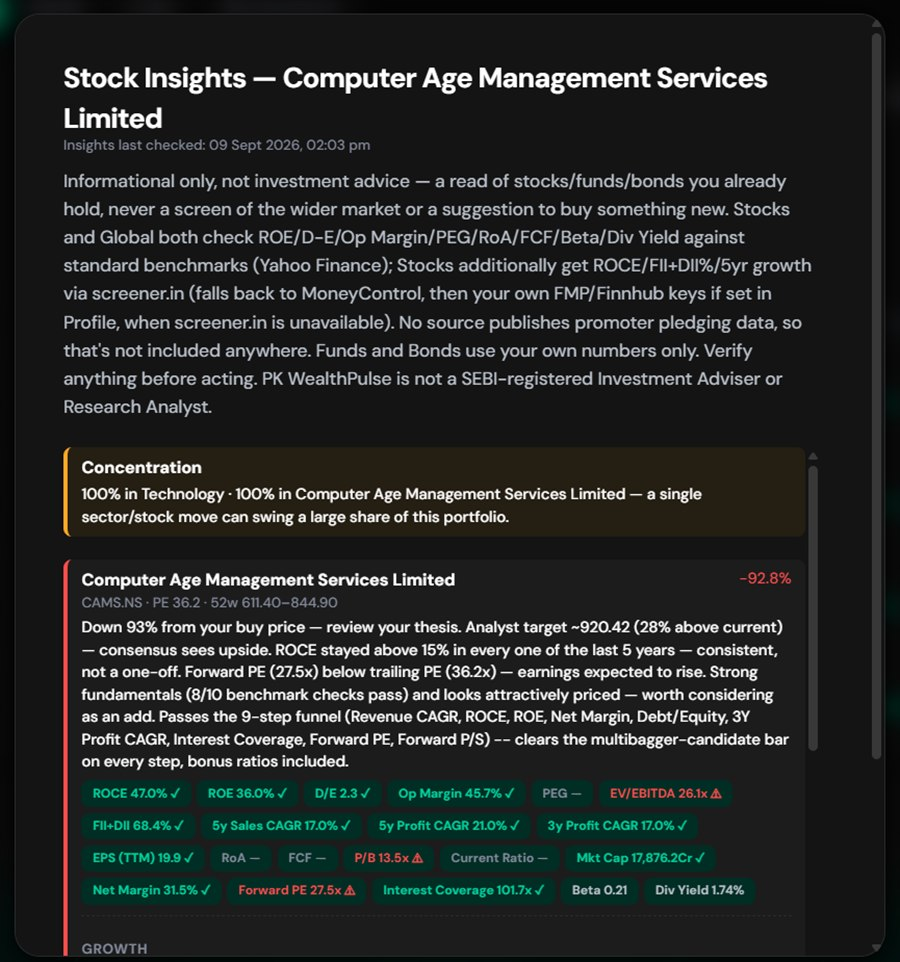
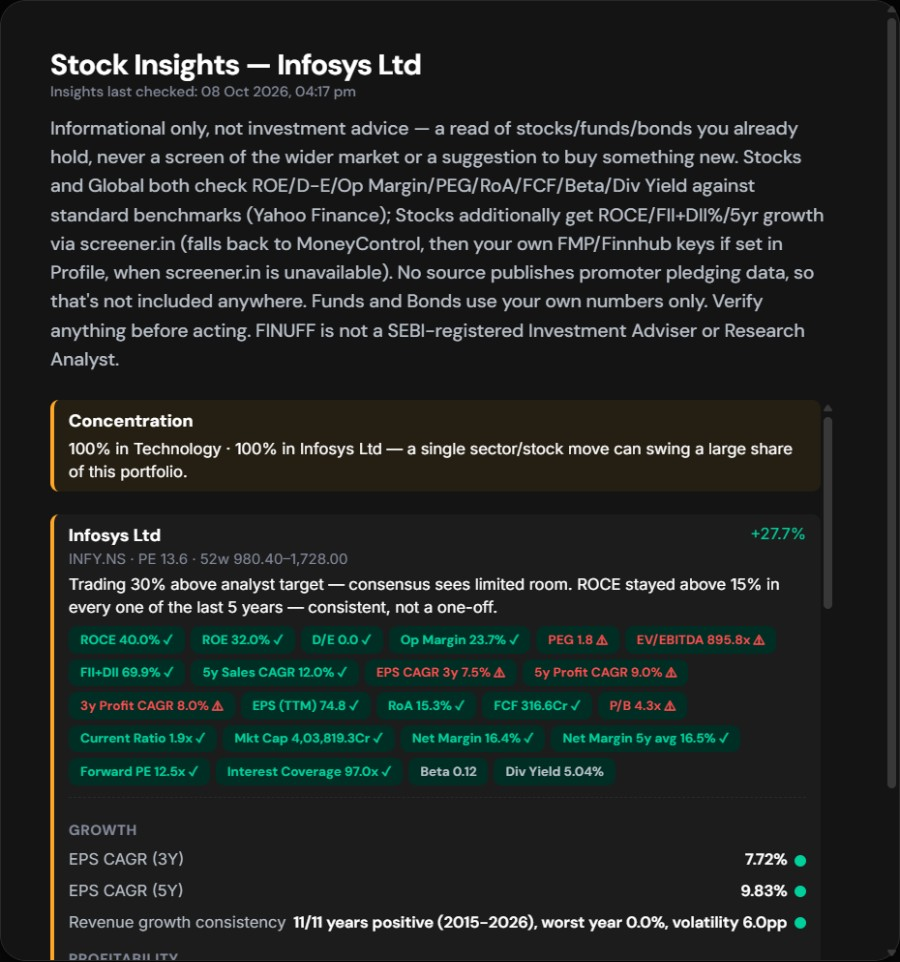
rebrand: FINUFF landing site (text, metadata, screenshots, OG image)
- Visible brand PK WealthPulse -> FINUFF across the landing page
- Title/og:title "FINUFF — Know What's Enough"; canonical + og:url + sitemap -> https://finuff.com/
- Replace screenshots that showed the old app UI with FINUFF captures (same filenames/dimensions)
- Add 1200x630 og-image.jpg and point og:image at https://finuff.com/assets/og-image.jpg
- Support emails, Google Form, CSP, wrangler.toml (Worker name "pk"), logo unchanged

diff --git a/index.html b/index.html
@@ -3,11 +3,13 @@
 <head>
 <meta charset="UTF-8">
 <meta name="viewport" content="width=device-width, initial-scale=1.0">
-<title>PK WealthPulse — Your Family's Wealth. One Private Vault.</title>
+<title>FINUFF — Know What's Enough</title>
 <meta name="description" content="Your family's complete financial picture — privately stored on your device. Mutual funds, stocks, bonds, bank accounts, insurance, EPF, NPS, PPF, SSY, gold, property, business ownership and loans, consolidated into one net worth without uploading your portfolio to someone else's cloud.">
-<meta property="og:title" content="PK WealthPulse — Your Family's Wealth. One Private Vault.">
+<meta property="og:title" content="FINUFF — Know What's Enough">
+<link rel="canonical" href="https://finuff.com/">
+<meta property="og:url" content="https://finuff.com/">
 <meta property="og:description" content="Mutual funds, stocks, bonds, bank accounts, insurance, EPF, NPS, PPF, SSY, gold, property, business ownership and loans — consolidated into one financial picture, privately stored on your device. ₹1,999/year for the entire household.">
-<meta property="og:image" content="assets/screenshot-portfolio-v3.jpg">
+<meta property="og:image" content="https://finuff.com/assets/og-image.jpg">
 <meta name="theme-color" content="#0A0A0A">
 <link rel="icon" href="assets/logo.png">
 <meta name="google-site-verification" content="PtIQGflrQ2eholAdQLUPJY7o91xxKASJNg6zFswvtJA" />
@@ -296,7 +298,7 @@
 
 <nav>
   <div class="wrap">
-    <a class="brand" href="/"><img src="assets/logo.png" alt=""> PK WealthPulse</a>
+    <a class="brand" href="/"><img src="assets/logo.png" alt=""> FINUFF</a>
     <div class="navlinks" id="navlinks">
       <a href="#features">Features</a>
       <a href="#security">Security</a>
@@ -321,7 +323,7 @@
           <a class="btn-primary" href="#get-license">Get Started Free →</a>
           <span class="or-divider">or</span>
           <a class="cta" href="https://get.microsoft.com/installer/download/9NGMX7VC3BJR?referrer=appbadge">
-            <img src="https://get.microsoft.com/images/en-us%20dark.svg" alt="Get PK WealthPulse from the Microsoft Store">
+            <img src="https://get.microsoft.com/images/en-us%20dark.svg" alt="Get FINUFF from the Microsoft Store">
           </a>
         </div>
         <p style="margin:10px 0 0;font-size:.82rem;color:var(--muted)">No account required. Your portfolio data stays on your device.</p>
@@ -329,10 +331,10 @@
     </div>
     <div class="hero-media">
       <div class="frame">
-        <img src="assets/screenshot-portfolio-v3.jpg" alt="PK WealthPulse Portfolio view — consolidated net worth across mutual funds, stocks, bonds, insurance and more">
+        <img src="assets/screenshot-portfolio-v3.jpg" alt="FINUFF Portfolio view — consolidated net worth across mutual funds, stocks, bonds, insurance and more">
       </div>
       <div class="trust">
-        <span><svg viewBox="0 0 20 20" fill="currentColor"><path d="M10 2a1 1 0 0 1 1 1v1.06a7 7 0 0 1 5.94 5.94H18a1 1 0 1 1 0 2h-1.06A7 7 0 0 1 11 17.94V19a1 1 0 1 1-2 0v-1.06A7 7 0 0 1 3.06 12H2a1 1 0 1 1 0-2h1.06A7 7 0 0 1 9 4.06V3a1 1 0 0 1 1-1Zm0 4a5 5 0 1 0 0 10 5 5 0 0 0 0-10Z"/></svg> No PK WealthPulse account required</span>
+        <span><svg viewBox="0 0 20 20" fill="currentColor"><path d="M10 2a1 1 0 0 1 1 1v1.06a7 7 0 0 1 5.94 5.94H18a1 1 0 1 1 0 2h-1.06A7 7 0 0 1 11 17.94V19a1 1 0 1 1-2 0v-1.06A7 7 0 0 1 3.06 12H2a1 1 0 1 1 0-2h1.06A7 7 0 0 1 9 4.06V3a1 1 0 0 1 1-1Zm0 4a5 5 0 1 0 0 10 5 5 0 0 0 0-10Z"/></svg> No FINUFF account required</span>
         <span><svg viewBox="0 0 20 20" fill="currentColor"><path d="M10 1 3 4v5c0 5 3 8 7 10 4-2 7-5 7-10V4l-7-3Z"/></svg> Your portfolio isn't uploaded to our servers</span>
         <span><svg viewBox="0 0 20 20" fill="currentColor"><path d="M6 2a2 2 0 0 0-2 2v12a2 2 0 0 0 2 2h8a2 2 0 0 0 2-2V4a2 2 0 0 0-2-2H6Zm2 3h4a1 1 0 1 1 0 2H8a1 1 0 1 1 0-2Z"/></svg> One-time install</span>
         <span><svg viewBox="0 0 20 20" fill="currentColor"><path d="M10 2a1 1 0 0 1 1 1v1.06a7 7 0 0 1 5.94 5.94H18a1 1 0 1 1 0 2h-1.06A7 7 0 0 1 11 17.94V19a1 1 0 1 1-2 0v-1.06A7 7 0 0 1 3.06 12H2a1 1 0 1 1 0-2h1.06A7 7 0 0 1 9 4.06V3a1 1 0 0 1 1-1Zm0 4a5 5 0 1 0 0 10 5 5 0 0 0 0-10Z"/></svg> AES-256-GCM encrypted vault</span>
@@ -353,7 +355,7 @@
     <h2 class="big-h reveal">Your financial life is <span class="grad">bigger than your portfolio.</span></h2>
     <div class="scatter reveal"><span>Stocks in one place</span><span>Mutual funds in another</span><span>Bank accounts somewhere else</span><span>Insurance elsewhere</span><span>EPF, NPS &amp; PPF elsewhere</span><span>Property</span><span>Gold</span><span>Business interests</span><span>Loans</span></div>
     <div class="prose reveal"><p>You may have all the information &mdash; but still not have <strong>one clear financial picture.</strong></p>
-    <p class="pull">PK WealthPulse brings the pieces together.</p></div>
+    <p class="pull">FINUFF brings the pieces together.</p></div>
   </div>
 </section>
 
@@ -364,7 +366,7 @@
       <h2 class="big-h">Built from a <span class="grad">real financial problem.</span></h2>
       <div class="prose"><p>We realized something while trying to piece together a family's financial picture: <strong>having investments is not the same as having financial clarity.</strong></p>
       <p>Financial information can be scattered across accounts, platforms, statements and documents &mdash; and often one person ends up being the only one who knows where everything is.</p>
-      <p>PK WealthPulse was built to help solve that gap.</p></div>
+      <p>FINUFF was built to help solve that gap.</p></div>
     </div>
     <div class="reveal"><div class="callout" style="margin-top:0"><div class="callout-kicker">The idea in three lines</div>
       <div class="three-lines"><span>See your financial life.</span><span style="color:var(--text)">Understand it.</span><span>Keep your family informed.</span></div>
@@ -374,11 +376,11 @@
 
 <section id="where-it-fits">
   <div class="wrap">
-    <div class="kicker reveal">Where PK WealthPulse Fits</div>
+    <div class="kicker reveal">Where FINUFF Fits</div>
     <h2 class="big-h reveal">Your bank isn't <span class="grad">your financial picture.</span></h2>
     <table class="fit reveal"><thead><tr><th>What you use</th><th>What it shows</th></tr></thead><tbody>
-      <tr><td>Bank app</td><td>Bank accounts</td></tr><tr><td>Broker</td><td>Stocks</td></tr><tr><td>Mutual fund platform</td><td>Mutual funds</td></tr><tr><td>Insurance portal</td><td>Insurance</td></tr><tr><td>EPF / NPS / PPF</td><td>Retirement assets</td></tr><tr><td>Spreadsheet</td><td>Whatever you manually enter</td></tr><tr class="us"><td>PK WealthPulse</td><td>Your broader financial picture</td></tr></tbody></table>
-    <div class="prose reveal"><p><strong>PK WealthPulse doesn't replace your financial accounts.</strong></p><p>It helps you see them as part of one bigger picture.</p></div>
+      <tr><td>Bank app</td><td>Bank accounts</td></tr><tr><td>Broker</td><td>Stocks</td></tr><tr><td>Mutual fund platform</td><td>Mutual funds</td></tr><tr><td>Insurance portal</td><td>Insurance</td></tr><tr><td>EPF / NPS / PPF</td><td>Retirement assets</td></tr><tr><td>Spreadsheet</td><td>Whatever you manually enter</td></tr><tr class="us"><td>FINUFF</td><td>Your broader financial picture</td></tr></tbody></table>
+    <div class="prose reveal"><p><strong>FINUFF doesn't replace your financial accounts.</strong></p><p>It helps you see them as part of one bigger picture.</p></div>
   </div>
 </section>
 
@@ -403,18 +405,18 @@
       <div class="kicker">Built For The Whole Household</div>
       <h2 class="big-h">One household. <span class="grad">One financial picture.</span></h2>
       <div class="prose"><p>Your finances don't exist in isolation. Your spouse may have investments. You may have retirement accounts. The family may own property. There may be loans, insurance and other assets.</p>
-      <p>PK WealthPulse lets you organize the household's broader financial picture together.</p></div>
+      <p>FINUFF lets you organize the household's broader financial picture together.</p></div>
       <div class="price-big"><b>&#8377;1,999/year</b><span>for the entire household</span></div>
       <p style="margin:0 0 22px;color:var(--muted);font-size:.9rem">Not per user. Every member, every holding.</p>
       <a class="btn-primary" href="#get-license">Start Your Free Trial &rarr;</a>
     </div>
-    <div class="reveal"><div class="frame" style="margin:0"><img src="assets/screenshot-family-v2.jpg" alt="PK WealthPulse Family view showing every household member's holdings in one picture"></div></div>
+    <div class="reveal"><div class="frame" style="margin:0"><img src="assets/screenshot-family-v2.jpg" alt="FINUFF Family view showing every household member's holdings in one picture"></div></div>
   </div>
 </section>
 
 <section>
   <div class="wrap">
-    <div class="kicker reveal" style="text-align:center">What WealthPulse Actually Does</div>
+    <div class="kicker reveal" style="text-align:center">What FINUFF Actually Does</div>
     <h2 class="reveal" style="text-align:center">Four jobs, one vault</h2>
     <div class="stats reveal">
       <div class="card"><h3>Consolidate</h3><p>Everything your family owns and owes, in one place.</p></div>
@@ -428,7 +430,7 @@
 <section class="alt">
   <div class="wrap">
     <div class="kicker reveal" style="text-align:center">By The Numbers</div>
-    <h2 class="reveal" style="text-align:center">The numbers behind WealthPulse</h2>
+    <h2 class="reveal" style="text-align:center">The numbers behind FINUFF</h2>
     <p class="lede reveal" style="text-align:center;margin-left:auto;margin-right:auto">&nbsp;</p>
     <div class="stats reveal">
       <div class="stat"><b>24+</b><span>Asset &amp; account classes consolidated into one net worth</span></div>
@@ -467,7 +469,7 @@
 
     <div class="callout reveal" style="margin-top:32px">
       <div class="callout-kicker">The Core Commitment</div>
-      <p style="max-width:none;">We don't receive, store, or have access to your portfolio or vault data. There is no backend that stores your portfolio, no account team that can query it, and no server-side copy for us to recover. WealthPulse may contact allowlisted market and currency providers for prices and exchange rates — those requests contain only the information required for the lookup, such as a ticker, ISIN or currency pair, not your portfolio, balances or vault contents. ₹1,999/year covers the whole household, not per user or per account — about ₹5.48 a day for the entire household. It covers every mutual fund, stock, bond, insurance policy, loan, EPF and gold holding your family tracks. Your Master Password is the only key that unlocks your data, derived on your own device, and it never leaves it. <strong>The trade-off:</strong> if you lose your device and your encrypted backup, we cannot recover your vault for you — that's the cost of keeping the data under your control instead of ours.</p>
+      <p style="max-width:none;">We don't receive, store, or have access to your portfolio or vault data. There is no backend that stores your portfolio, no account team that can query it, and no server-side copy for us to recover. FINUFF may contact allowlisted market and currency providers for prices and exchange rates — those requests contain only the information required for the lookup, such as a ticker, ISIN or currency pair, not your portfolio, balances or vault contents. ₹1,999/year covers the whole household, not per user or per account — about ₹5.48 a day for the entire household. It covers every mutual fund, stock, bond, insurance policy, loan, EPF and gold holding your family tracks. Your Master Password is the only key that unlocks your data, derived on your own device, and it never leaves it. <strong>The trade-off:</strong> if you lose your device and your encrypted backup, we cannot recover your vault for you — that's the cost of keeping the data under your control instead of ours.</p>
     </div>
   </div>
 </section>
@@ -491,7 +493,7 @@
       </div>
       <div class="showcase-media">
         <div class="frame">
-          <img src="assets/screenshot-family-v3.jpg" alt="PK WealthPulse Family view — combined net worth and per-member breakdown across all family accounts">
+          <img src="assets/screenshot-family-v3.jpg" alt="FINUFF Family view — combined net worth and per-member breakdown across all family accounts">
         </div>
       </div>
     </div>
@@ -506,7 +508,7 @@
         </div>
         <div class="banner-media">
           <div class="frame">
-            <img src="assets/screenshot-import-v2.jpg" alt="PK WealthPulse Import screen — CAS, broker, bonds, NPS, PF and tax statement upload, all sources in one place">
+            <img src="assets/screenshot-import-v2.jpg" alt="FINUFF Import screen — CAS, broker, bonds, NPS, PF and tax statement upload, all sources in one place">
           </div>
         </div>
       </div>
@@ -551,7 +553,7 @@
   <div class="wrap">
     <div class="kicker reveal">Ongoing Value</div>
     <h2 class="reveal">A financial dashboard that keeps working after setup</h2>
-    <p class="lede reveal" style="max-width:none">It doesn't just consolidate your finances once. It keeps watching the things that change throughout the year — that's what makes WealthPulse a yearly service rather than a one-time import tool.</p>
+    <p class="lede reveal" style="max-width:none">It doesn't just consolidate your finances once. It keeps watching the things that change throughout the year — that's what makes FINUFF a yearly service rather than a one-time import tool.</p>
     <div class="grid reveal">
       <div class="card"><div class="icon orange"><svg viewBox="0 0 24 24" fill="none" stroke="currentColor" stroke-width="2"><path d="M12 2 4 6v6c0 5 3.5 8 8 10 4.5-2 8-5 8-10V6l-8-4Z"/></svg></div><h3>Insurance renewal approaching</h3><p>A 12-month renewal calendar tracks every policy so a lapse never sneaks up on you.</p></div>
       <div class="card"><div class="icon blue"><svg viewBox="0 0 24 24" fill="none" stroke="currentColor" stroke-width="2"><rect x="3" y="5" width="18" height="14" rx="2"/><path d="M3 10h18M7 15h4"/></svg></div><h3>FD/bond maturity coming up</h3><p>Fixed deposits and bonds surface their maturity date well ahead of time, not after the fact.</p></div>
@@ -575,11 +577,11 @@
             <p>Profitability, debt, growth and free-cash-flow ratios for every stock, fund, bond and global holding you own — sourced from Screener.in, Tickertape and other independent providers, each figure attributed to exactly where it came from.</p>
             <p>Two independent checklists — a growth screen and a broader profitability/safety funnel — run against your own holdings. A stock earns a star only when it clears the full bar; large-issuer bonds get their own interest-coverage safety check.</p>
           </div>
-          <p style="font-size:.76rem;color:var(--text);margin-top:14px">PK WealthPulse is not a SEBI-registered Investment Adviser or Research Analyst — this analysis is informational only, not investment advice.</p>
+          <p style="font-size:.76rem;color:var(--text);margin-top:14px">FINUFF is not a SEBI-registered Investment Adviser or Research Analyst — this analysis is informational only, not investment advice.</p>
         </div>
         <div class="banner-media">
           <div class="frame">
-            <img src="assets/screenshot-insights.jpg" alt="PK WealthPulse Stock Insights — fundamentals, quality benchmark checks and concentration analysis on a real holding">
+            <img src="assets/screenshot-insights.jpg" alt="FINUFF Stock Insights — fundamentals, quality benchmark checks and concentration analysis on a real holding">
           </div>
         </div>
       </div>
@@ -591,7 +593,7 @@
   <div class="wrap">
     <div class="kicker reveal">Net-Worth Intelligence</div>
     <h2 class="reveal">Don't just track returns. Track whether your family is getting wealthier.</h2>
-    <p class="lede reveal" style="max-width:none">A portfolio can return 0% for the year and your family can still be meaningfully wealthier — because debt fell, or savings grew. WealthPulse separates net-worth growth into three parts instead of one blended return number.</p>
+    <p class="lede reveal" style="max-width:none">A portfolio can return 0% for the year and your family can still be meaningfully wealthier — because debt fell, or savings grew. FINUFF separates net-worth growth into three parts instead of one blended return number.</p>
     <div class="showcase reveal">
       <div>
         <p class="lede" style="margin-bottom:0">Investment growth, cash/asset growth, and debt reduction — shown separately, so you can see <em>why</em> your family's financial position improved, not just that it did. Labeled with the real elapsed period ("3 months ago", "1 year ago") rather than a number that pretends to be more precise than the data actually is.</p>
@@ -617,12 +619,12 @@
     <div class="kicker reveal">Privacy</div>
     <h2 class="big-h reveal">Your financial data <span class="grad">belongs with you.</span></h2>
     <div class="stats reveal" style="margin-bottom:26px">
-      <div class="card"><h3>No account needed</h3><p>No PK WealthPulse account required.</p></div>
+      <div class="card"><h3>No account needed</h3><p>No FINUFF account required.</p></div>
       <div class="card"><h3>On your device</h3><p>Your portfolio data stays on your device.</p></div>
       <div class="card"><h3>AES-256-GCM</h3><p>Encrypted vault.</p></div>
       <div class="card"><h3>Argon2id</h3><p>Key derivation.</p></div>
     </div>
-    <div class="prose reveal"><p>We designed PK WealthPulse around a simple principle:</p><p class="pull" style="margin-top:0">Your financial information shouldn't need to live in our database for you to use the application.</p></div>
+    <div class="prose reveal"><p>We designed FINUFF around a simple principle:</p><p class="pull" style="margin-top:0">Your financial information shouldn't need to live in our database for you to use the application.</p></div>
   </div>
 </section>
 
@@ -634,12 +636,12 @@
 
     <div class="card reveal" style="margin-bottom:32px;padding:26px 30px">
       <div style="display:grid;grid-template-columns:1fr auto 1fr auto 1fr;align-items:center;gap:10px;font-size:.9rem;text-align:center">
-        <span style="color:var(--text);font-weight:600">Your computer</span><span style="color:var(--muted)">CAS / statements →</span><span style="color:var(--text);font-weight:600">WealthPulse</span><span style="color:var(--muted)">→</span><span style="color:var(--text);font-weight:600">Encrypted local vault</span>
+        <span style="color:var(--text);font-weight:600">Your computer</span><span style="color:var(--muted)">CAS / statements →</span><span style="color:var(--text);font-weight:600">FINUFF</span><span style="color:var(--muted)">→</span><span style="color:var(--text);font-weight:600">Encrypted local vault</span>
       </div>
       <div style="display:grid;grid-template-columns:1fr auto 1fr auto 1fr;align-items:center;gap:10px;font-size:.9rem;margin-top:10px;text-align:center">
-        <span style="color:var(--text);font-weight:600">Market data providers</span><span style="color:var(--muted)">→</span><span style="color:var(--text);font-weight:600">WealthPulse</span><span style="color:var(--muted)">→</span><span style="color:var(--text);font-weight:600">Prices only, no portfolio data sent</span>
+        <span style="color:var(--text);font-weight:600">Market data providers</span><span style="color:var(--muted)">→</span><span style="color:var(--text);font-weight:600">FINUFF</span><span style="color:var(--muted)">→</span><span style="color:var(--text);font-weight:600">Prices only, no portfolio data sent</span>
       </div>
-      <div style="margin-top:16px;padding:10px 16px;border-radius:8px;background:rgba(255,122,122,.08);border:1px solid rgba(255,122,122,.3);color:#ff9a9a;font-weight:700;font-size:.82rem;letter-spacing:.02em;text-align:center">NO PORTFOLIO DATA → PK WEALTHPULSE SERVER</div>
+      <div style="margin-top:16px;padding:10px 16px;border-radius:8px;background:rgba(255,122,122,.08);border:1px solid rgba(255,122,122,.3);color:#ff9a9a;font-weight:700;font-size:.82rem;letter-spacing:.02em;text-align:center">NO PORTFOLIO DATA → FINUFF SERVER</div>
       <p style="margin:14px 0 0;font-size:.82rem;color:var(--muted)">External market requests contain only the information required for the lookup — a ticker, ISIN or currency pair — not your portfolio, balances or vault contents.</p>
     </div>
 
@@ -681,12 +683,12 @@
 
     <div class="callout reveal">
       <div class="callout-kicker">Don't Take Our Word For It</div>
-      <p style="max-width:none;">Every claim above is something you can check yourself, not just something we assert. Open your browser or OS network monitor while using the app — outbound calls are limited to allowlisted market/currency lookups, license verification (which checks only your license key, email and name — never portfolio data), and, only if you've opted into email/SMS/WhatsApp alerts, the alert service you configured (which receives the alert text itself, e.g. a renewal date — never your full portfolio). The app's Content-Security-Policy ships as an explicit allowlist, not a default-open one, so there's no wildcard hiding an undisclosed destination. There is no PK WealthPulse financial account to create — license verification checks a license key, not a password, and no server on our end ever holds your financial data.</p>
+      <p style="max-width:none;">Every claim above is something you can check yourself, not just something we assert. Open your browser or OS network monitor while using the app — outbound calls are limited to allowlisted market/currency lookups, license verification (which checks only your license key, email and name — never portfolio data), and, only if you've opted into email/SMS/WhatsApp alerts, the alert service you configured (which receives the alert text itself, e.g. a renewal date — never your full portfolio). The app's Content-Security-Policy ships as an explicit allowlist, not a default-open one, so there's no wildcard hiding an undisclosed destination. There is no FINUFF financial account to create — license verification checks a license key, not a password, and no server on our end ever holds your financial data.</p>
     </div>
 
     <div class="callout reveal">
       <div class="callout-kicker">Your Master Password Is Not Recoverable</div>
-      <p style="max-width:none;">Because PK WealthPulse never possesses your vault or Master Password, we cannot reset your password or recover an encrypted vault if you lose both your password and backup. Keep your Master Password safe and maintain an encrypted backup — that's the trade-off for a financial vault with no vendor-side copy to fall back on.</p>
+      <p style="max-width:none;">Because FINUFF never possesses your vault or Master Password, we cannot reset your password or recover an encrypted vault if you lose both your password and backup. Keep your Master Password safe and maintain an encrypted backup — that's the trade-off for a financial vault with no vendor-side copy to fall back on.</p>
     </div>
   </div>
 </section>
@@ -694,7 +696,7 @@
 <section class="alt" id="honest-numbers">
   <div class="wrap">
     <div class="kicker reveal">Honest Numbers</div>
-    <h2 class="reveal">WealthPulse won't pretend to know what it doesn't know</h2>
+    <h2 class="reveal">FINUFF won't pretend to know what it doesn't know</h2>
     <p class="lede reveal">Financial figures are labeled according to how they were obtained.</p>
     <div class="stats reveal">
       <div class="card"><h3>Live</h3><p>Fetched market/NAV data from the relevant public provider.</p></div>
@@ -704,7 +706,7 @@
     </div>
     <div class="callout reveal">
       <div class="callout-kicker">Why We Don't Estimate Everything</div>
-      <p style="max-width:none;">WealthPulse deliberately doesn't turn uncertain valuations into precise-looking numbers. Property and Business Ownership <em>are</em> tracked — at the value you record and keep updated yourself, since there's no live appraisal feed for either. Private/unlisted equity and crypto are where we draw the line: they carry valuation, liquidity, ownership and tax complexities that don't fit the same transparent, auditable calculation model used everywhere else in the app. <strong>We'd rather leave a valuation out than give you a precise-looking number we can't defend.</strong> It's a scope decision, not a missing feature.</p>
+      <p style="max-width:none;">FINUFF deliberately doesn't turn uncertain valuations into precise-looking numbers. Property and Business Ownership <em>are</em> tracked — at the value you record and keep updated yourself, since there's no live appraisal feed for either. Private/unlisted equity and crypto are where we draw the line: they carry valuation, liquidity, ownership and tax complexities that don't fit the same transparent, auditable calculation model used everywhere else in the app. <strong>We'd rather leave a valuation out than give you a precise-looking number we can't defend.</strong> It's a scope decision, not a missing feature.</p>
     </div>
   </div>
 </section>
@@ -714,7 +716,7 @@
     <div class="kicker reveal" style="text-align:center">Architectural Independence</div>
     <h2 class="reveal" style="text-align:center">Your data shouldn't depend on our existence</h2>
     <div class="callout reveal">
-      <p style="max-width:none;margin:0 0 12px">WealthPulse is a local application. Your vault isn't hosted on our servers, and your financial data isn't dependent on our cloud continuing to operate.</p>
+      <p style="max-width:none;margin:0 0 12px">FINUFF is a local application. Your vault isn't hosted on our servers, and your financial data isn't dependent on our cloud continuing to operate.</p>
       <p style="max-width:none;margin:0">Export your data. Back it up. Move it to another installation. <strong style="color:var(--text)">Your wealth remains yours.</strong></p>
     </div>
   </div>
@@ -737,7 +739,7 @@
     <div class="kicker reveal">How It Fits Into Your Life</div>
     <h2 class="big-h reveal">A simple <span class="grad">four-step rhythm.</span></h2>
     <div class="steps reveal">
-      <div class="card"><div class="num">1 &middot; COLLECT</div><p>Bring your financial information into PK WealthPulse.</p></div>
+      <div class="card"><div class="num">1 &middot; COLLECT</div><p>Bring your financial information into FINUFF.</p></div>
       <div class="card"><div class="num">2 &middot; ORGANIZE</div><p>Categorize assets, liabilities, investments, protection and other financial information.</p></div>
       <div class="card"><div class="num">3 &middot; UNDERSTAND</div><p>See your broader financial position.</p></div>
       <div class="card"><div class="num">4 &middot; REVIEW</div><p>Return periodically to understand how your financial picture changes.</p></div>
@@ -767,7 +769,7 @@
       <div>
         <div class="kicker" style="margin-bottom:8px">From The Solution Developer</div>
         <p class="founder-quote">"I built this because I wanted one place to see my own family's complete net worth — mutual funds, stocks, insurance, EPF, gold — without handing a consolidated statement of everything we own to another company's servers. I didn't want a company to become the permanent custodian of a complete map of everything my family owns. Every design decision since has followed that same rule: if a cloud aggregator wouldn't need your data to do its job, this app doesn't collect it either."</p>
-        <p class="founder-name">Praveen Kumar Kamaraj <span>· Solution Developer, PK WealthPulse</span></p>
+        <p class="founder-name">Praveen Kumar Kamaraj <span>· Solution Developer, FINUFF</span></p>
       </div>
     </div>
   </div>
@@ -780,7 +782,7 @@
     <p class="lede reveal" style="text-align:center;max-width:720px;margin-left:auto;margin-right:auto">Every option available today falls into one of three approaches — each with a different, and often unstated, cost.</p>
     <div class="cmp-wrap">
       <table class="cmp-table">
-        <tr><th>Dimension</th><th>PK WealthPulse</th><th>Cloud Aggregator Apps</th><th>Spreadsheets / Manual</th></tr>
+        <tr><th>Dimension</th><th>FINUFF</th><th>Cloud Aggregator Apps</th><th>Spreadsheets / Manual</th></tr>
         <tr><td>Where the data lives</td><td class="good">Encrypted, on-device only</td><td class="bad">Vendor's cloud servers</td><td class="neutral">Local; security depends on how it is configured</td></tr>
         <tr><td>Encryption standard</td><td class="good">AES-256-GCM + Argon2id</td><td class="bad">Varies, often undisclosed</td><td class="neutral">Varies</td></tr>
         <tr><td>Exposure if vendor breached</td><td class="good">No portfolio exposure from a vendor-side database — no vendor copy exists</td><td class="bad">Portfolio data exists on the vendor's infrastructure</td><td class="neutral">Depends on where the file is stored and how it is protected</td></tr>
@@ -794,7 +796,7 @@
 
     <div class="callout center reveal">
       <h3>Consolidated visibility. Security-first, local-only architecture.</h3>
-      <p>Built for families and individuals who need one consolidated picture of everything WealthPulse can reliably track, without accepting a third party as a permanent custodian of that picture — wherever in the world they happen to live.</p>
+      <p>Built for families and individuals who need one consolidated picture of everything FINUFF can reliably track, without accepting a third party as a permanent custodian of that picture — wherever in the world they happen to live.</p>
     </div>
   </div>
 </section>
@@ -807,10 +809,10 @@
     <div class="faq-grid">
       <details class="reveal">
         <summary>How do I import my CAMS or KFintech CAS into a portfolio tracker?</summary>
-        <p>Download your Consolidated Account Statement (CAS) from MF Central, CAMS or KFintech as a text or PDF file, then drop it into PK WealthPulse's Import screen. It reads the portfolio summary — fund name (AMFI-verified), folio number, cost value, market value and unit balance — directly from the statement, so you don't retype anything.</p>
+        <p>Download your Consolidated Account Statement (CAS) from MF Central, CAMS or KFintech as a text or PDF file, then drop it into FINUFF's Import screen. It reads the portfolio summary — fund name (AMFI-verified), folio number, cost value, market value and unit balance — directly from the statement, so you don't retype anything.</p>
       </details>
       <details class="reveal">
-        <summary>Does PK WealthPulse work on Windows, macOS and Linux?</summary>
+        <summary>Does FINUFF work on Windows, macOS and Linux?</summary>
         <p>Windows is available now for instant download from the Microsoft Store, as a code-signed build. macOS and Linux builds are produced on request — pick your platform in the license request form below and we'll follow up once it's ready.</p>
       </details>
       <details class="reveal">
@@ -823,26 +825,26 @@
       </details>
       <details class="reveal">
         <summary>Is there a family finance tracker that doesn't upload data to the cloud?</summary>
-        <p>PK WealthPulse stores every record — investments, bank accounts, loans, credit cards, insurance policies — locally on your Windows PC. There is no server sync and no cloud account behind your financial data, which matters if you'd rather not hand consolidated statements of your entire family's net worth to a third-party server.</p>
+        <p>FINUFF stores every record — investments, bank accounts, loans, credit cards, insurance policies — locally on your Windows PC. There is no server sync and no cloud account behind your financial data, which matters if you'd rather not hand consolidated statements of your entire family's net worth to a third-party server.</p>
       </details>
       <details class="reveal">
         <summary>How does device activation work — can I use one license on multiple devices?</summary>
         <p>A license can be registered on up to 2 devices, but only one is ever active at a time. Logging in on your other registered device instantly makes it active and logs the first one out — no limit hit, no support needed. Trying a genuine 3rd device prompts you to replace one of the two registered slots. If you ever get stuck, email <a href="mailto:pkwealthpulse@gmail.com">pkwealthpulse@gmail.com</a> for help.</p>
       </details>
       <details class="reveal">
-        <summary>Does PK WealthPulse track real estate, business ownership, or crypto?</summary>
+        <summary>Does FINUFF track real estate, business ownership, or crypto?</summary>
         <p>Real estate and business ownership, yes — as Property and Business Ownership entries, valued at whatever you record and keep updated yourself (there's no live appraisal or market-comparable feed for either, so the number is only as current as you make it). Money you've lent or borrowed is tracked too, on the appropriate side of your net worth. Private/unlisted equity and crypto are where we draw the line: they carry valuation, liquidity, ownership and tax complexity that doesn't fit the same transparent, auditable model used for the rest of your portfolio — mutual funds, stocks, global equities/ETFs, bonds, gold, bank accounts, deposits, loans, credit cards, insurance and subscriptions. Rather than inventing a precise-looking number for those, we leave it out. It's a scope decision, not a missing feature.</p>
       </details>
       <details class="reveal">
         <summary>What happens if I lose my device or Master Password?</summary>
-        <p>WealthPulse cannot recover a vault it does not possess. If you lose your device, your encrypted backup is the recovery path — restore it on a new install with your Master Password. If you lose both your Master Password and access to a usable backup, the vault cannot be recovered by PK WealthPulse. That's the trade-off for a vault with no vendor-side copy to fall back on — see Profile → Encrypted Backup &amp; Restore.</p>
+        <p>FINUFF cannot recover a vault it does not possess. If you lose your device, your encrypted backup is the recovery path — restore it on a new install with your Master Password. If you lose both your Master Password and access to a usable backup, the vault cannot be recovered by FINUFF. That's the trade-off for a vault with no vendor-side copy to fall back on — see Profile → Encrypted Backup &amp; Restore.</p>
       </details>
       <details class="reveal">
-        <summary>Does WealthPulse send my portfolio to market-data providers?</summary>
+        <summary>Does FINUFF send my portfolio to market-data providers?</summary>
         <p>No. A live price/NAV lookup sends only the identifier needed for that lookup — a ticker, ISIN, fund code or currency pair — to the relevant public provider (AMFI, MoneyControl, BSE, Yahoo Finance, and others). It never sends your quantity, cost basis, balances, or any other part of your portfolio or vault.</p>
       </details>
       <details class="reveal">
-        <summary>Does PK WealthPulse tell me if my finances are actually healthy, or just track the numbers?</summary>
+        <summary>Does FINUFF tell me if my finances are actually healthy, or just track the numbers?</summary>
         <p>Both. Alongside every number it tracks, the Cash &amp; Credit page computes a Financial Health score from six independent metrics — Asset Coverage, Debt Ratio, Savings Rate, Liquidity, EMI Burden and Credit Utilization — so you get a single, explainable read on your financial position, not just a pile of balances. It's paired with a Retirement Planning calculator (required corpus, monthly contribution to close the gap, year-by-year projection) so the "is this healthy" question extends to the decades ahead, not just today.</p>
       </details>
     </div>
@@ -864,7 +866,7 @@
       </div>
       <div>
         <h2 style="font-size:1.15rem">A financial picture that keeps working after you've entered the data</h2>
-        <p class="lede" style="margin-bottom:0">Excel records what happened once. WealthPulse consolidates it, calculates it, and keeps watching it — renewals, maturities, new transactions, allocation drift, debt reduction, net-worth change — so the ₹1,999 buys a year of continuous attention, not a one-time import.</p>
+        <p class="lede" style="margin-bottom:0">Excel records what happened once. FINUFF consolidates it, calculates it, and keeps watching it — renewals, maturities, new transactions, allocation drift, debt reduction, net-worth change — so the ₹1,999 buys a year of continuous attention, not a one-time import.</p>
       </div>
     </div>
   </div>
@@ -874,7 +876,7 @@
   <div class="wrap">
     <h2 class="reveal">Your family's wealth deserves <span style="background:linear-gradient(135deg,var(--accent),var(--accent2));-webkit-background-clip:text;background-clip:text;color:transparent">a bigger picture.</span></h2>
     <div class="chain reveal"><span>You worked for it.</span><span>You saved it.</span><span>You invested it.</span><span>You protected it.</span><b>Now understand it.</b></div>
-    <p class="tag reveal"><strong>PK WealthPulse</strong><br>Your family's wealth. One private vault.<br>Know your money. Keep your family informed.</p>
+    <p class="tag reveal"><strong>FINUFF</strong><br>Your family's wealth. One private vault.<br>Know your money. Keep your family informed.</p>
     <a class="btn-primary reveal" href="#get-license">Start Your Free Trial &rarr;</a>
     <p style="margin:16px 0 0;font-size:.85rem;color:var(--muted)">14 days &middot; full access &middot; no card needed</p>
   </div>
@@ -960,7 +962,7 @@
           <div class="success-state" id="successState">
             <div class="tick"><svg viewBox="0 0 20 20" fill="none" stroke="currentColor" stroke-width="2"><path d="m5 10 3.5 3.5L15 7"/></svg></div>
             <h3>Request received</h3>
-            <p>Your PK WealthPulse license request has been received. We're verifying your details — once approved, your license lands straight in your inbox. Expect a response within 24 hours on weekdays, 48 hours on weekends.</p>
+            <p>Your FINUFF license request has been received. We're verifying your details — once approved, your license lands straight in your inbox. Expect a response within 24 hours on weekdays, 48 hours on weekends.</p>
           </div>
         </div>
       </div>
@@ -975,14 +977,14 @@
 
 <footer>
   <div class="wrap footer-row">
-    <a class="brand" href="/"><img src="assets/logo.png" alt=""> PK WealthPulse</a>
-    <p class="foot-copy">© 2026 PK WealthPulse. All rights reserved.</p>
+    <a class="brand" href="/"><img src="assets/logo.png" alt=""> FINUFF</a>
+    <p class="foot-copy">© 2026 FINUFF. All rights reserved.</p>
     <a href="https://get.microsoft.com/installer/download/9NGMX7VC3BJR?referrer=appbadge">
-      <img src="https://get.microsoft.com/images/en-us%20dark.svg" alt="Get PK WealthPulse from the Microsoft Store" style="height:44px;">
+      <img src="https://get.microsoft.com/images/en-us%20dark.svg" alt="Get FINUFF from the Microsoft Store" style="height:44px;">
     </a>
   </div>
   <div style="padding:14px 32px 0;text-align:center;">
-    <p class="foot-legal" style="margin:0;font-size:.72rem;color:var(--muted);white-space:nowrap;">PK WealthPulse is not a SEBI-registered Investment Adviser or Research Analyst — Portfolio Insights is informational only, not investment advice.</p>
+    <p class="foot-legal" style="margin:0;font-size:.72rem;color:var(--muted);white-space:nowrap;">FINUFF is not a SEBI-registered Investment Adviser or Research Analyst — Portfolio Insights is informational only, not investment advice.</p>
   </div>
 </footer>
 

diff --git a/form-design-concepts.html b/form-design-concepts.html
@@ -3,7 +3,7 @@
 <head>
 <meta charset="UTF-8">
 <meta name="viewport" content="width=device-width, initial-scale=1.0">
-<title>PK WealthPulse — License Form Concepts</title>
+<title>FINUFF — License Form Concepts</title>
 <style>
   :root{
     --bg:#08090b; --bg2:#0d0f12; --panel:#121417; --panel2:#16191d; --border:rgba(255,255,255,.08); --border-strong:rgba(255,255,255,.16);
